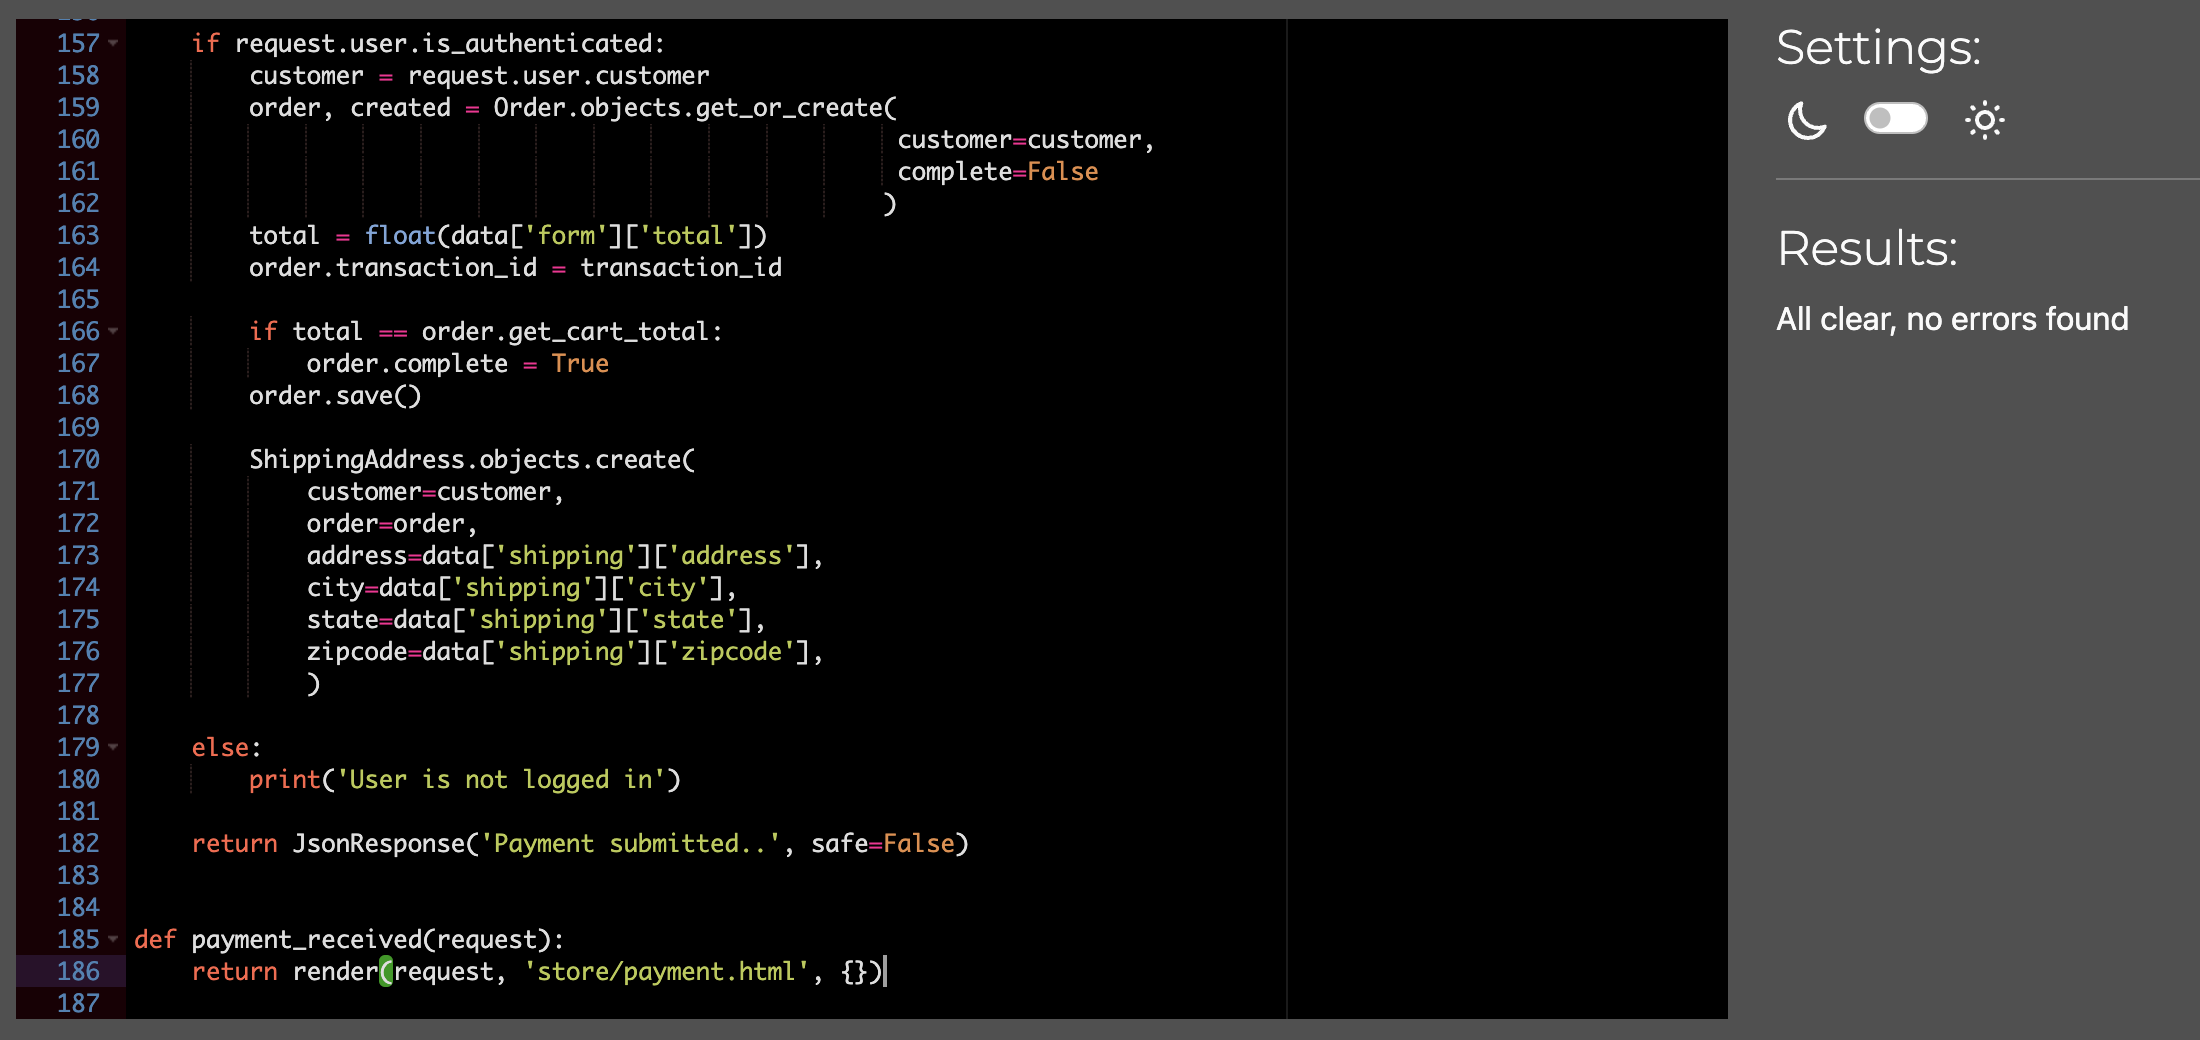
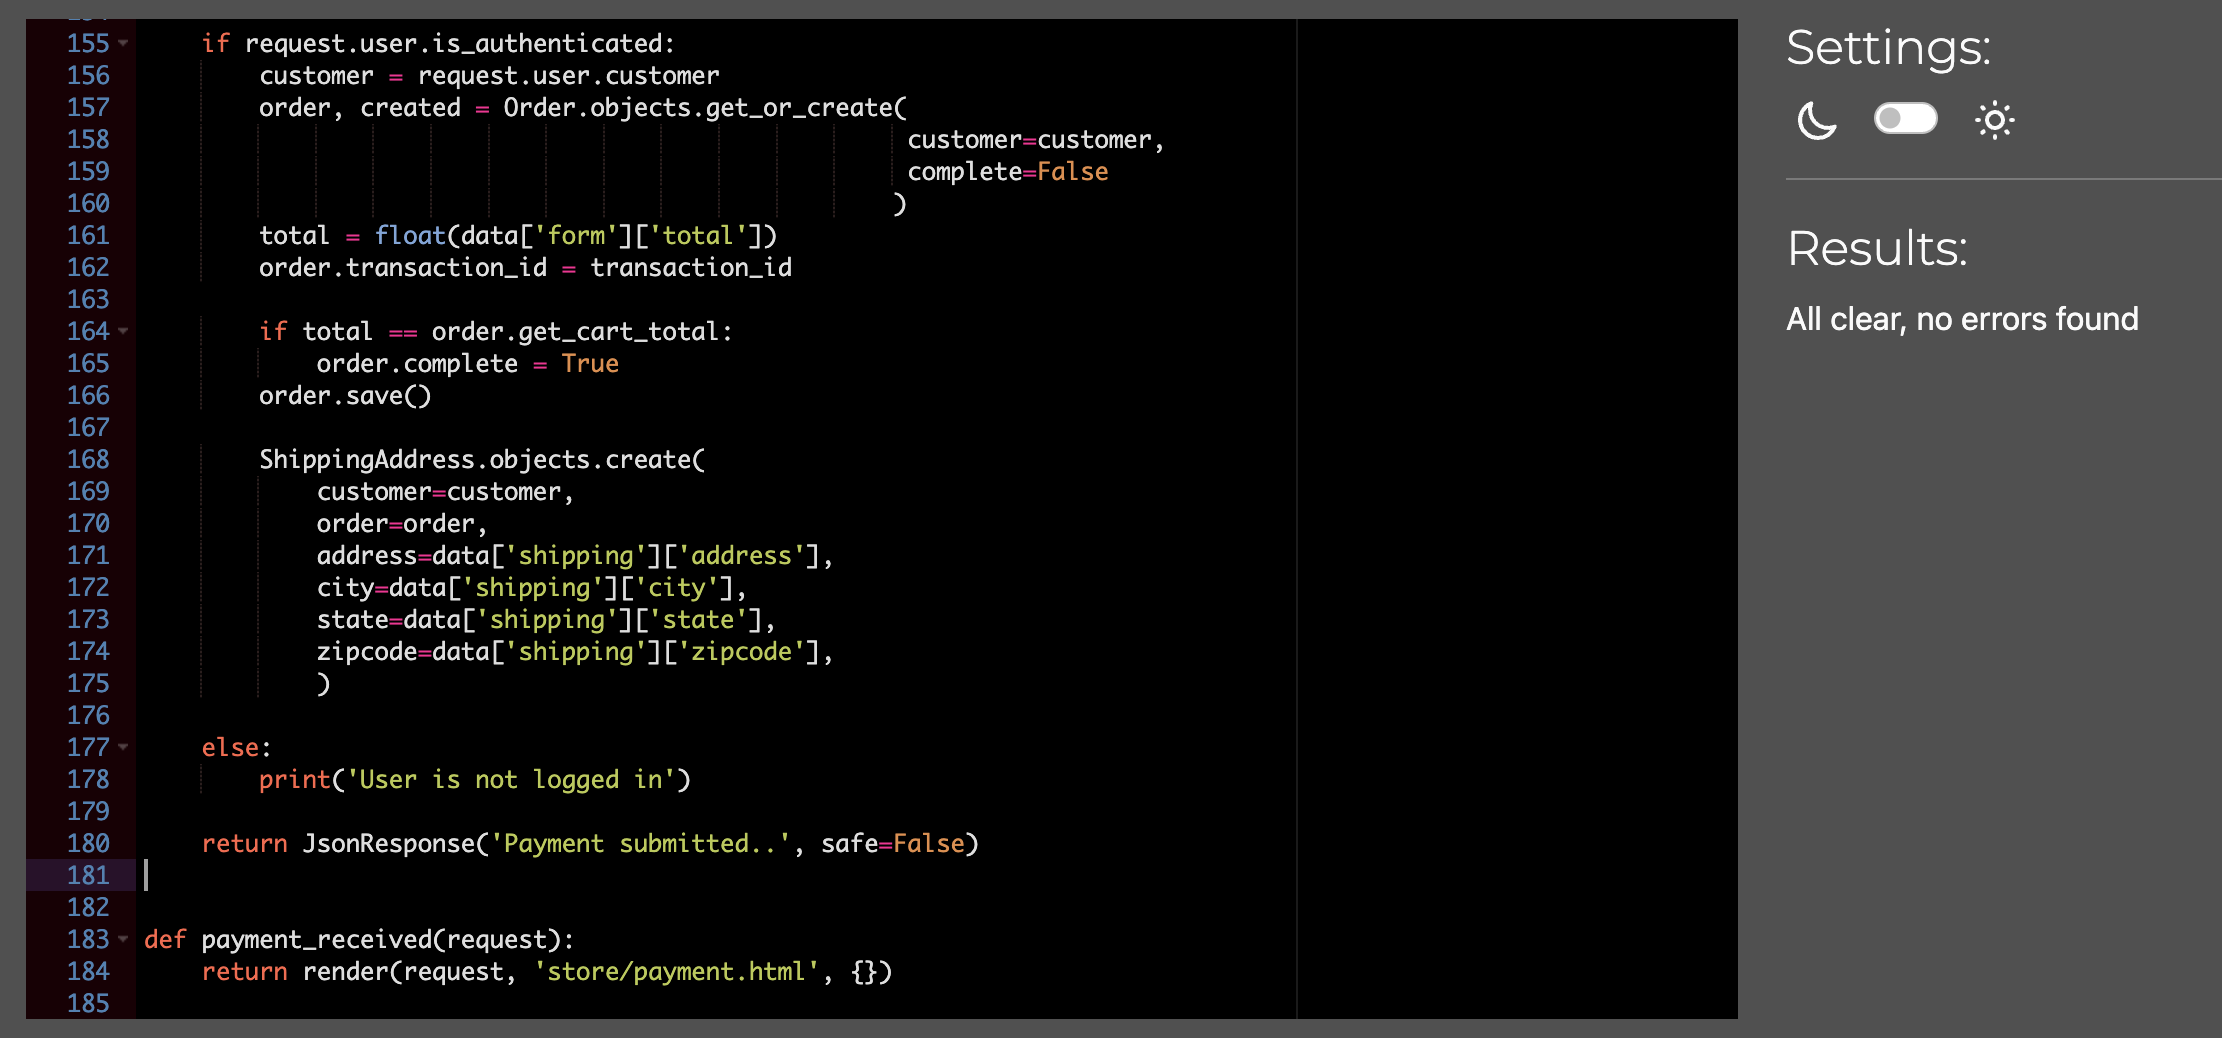
Update photo in manual testing folder

diff --git a/store/views.py b/store/views.py
@@ -71,9 +71,7 @@ class ProductDetail(generic.DetailView):
 """
 The four functions ('cart', 'checkout', 'update_item' and
 'process_order') have been taken from Dennis Ivy's tutorial.
-There has been some minor modification in the form of
-utilising the custom Product model but overall the functions
-remain unchanged from their original state. Please see README.md
+Please see README.md
 """
 
 

diff --git a/manual testing/testing.md b/manual testing/testing.md
@@ -1,6 +1,15 @@
 # Manual Testing
 
-## Python
+The purpose of this section is to visually document the manual testing carried out on the Python, HTML, CSS and JavaScript code using online tools. 
+
+### Contents:
+* Python PEP8 testing
+* HTML W3C testing
+* CSS W3C testing
+* JavaScript JShint testing
+
+
+## Python PEP8 Testing
 The python code was tested using Code Institute's [PEP8 Python Linter](https://pep8ci.herokuapp.com/)
 * The text loading is staggered in order to make it look like the user is awaiting receipt of a message from fleet Command. This is done to create a further sense of immersion by linking the user with an imaginery third party, a Fleet Command.</br >
 </br >
